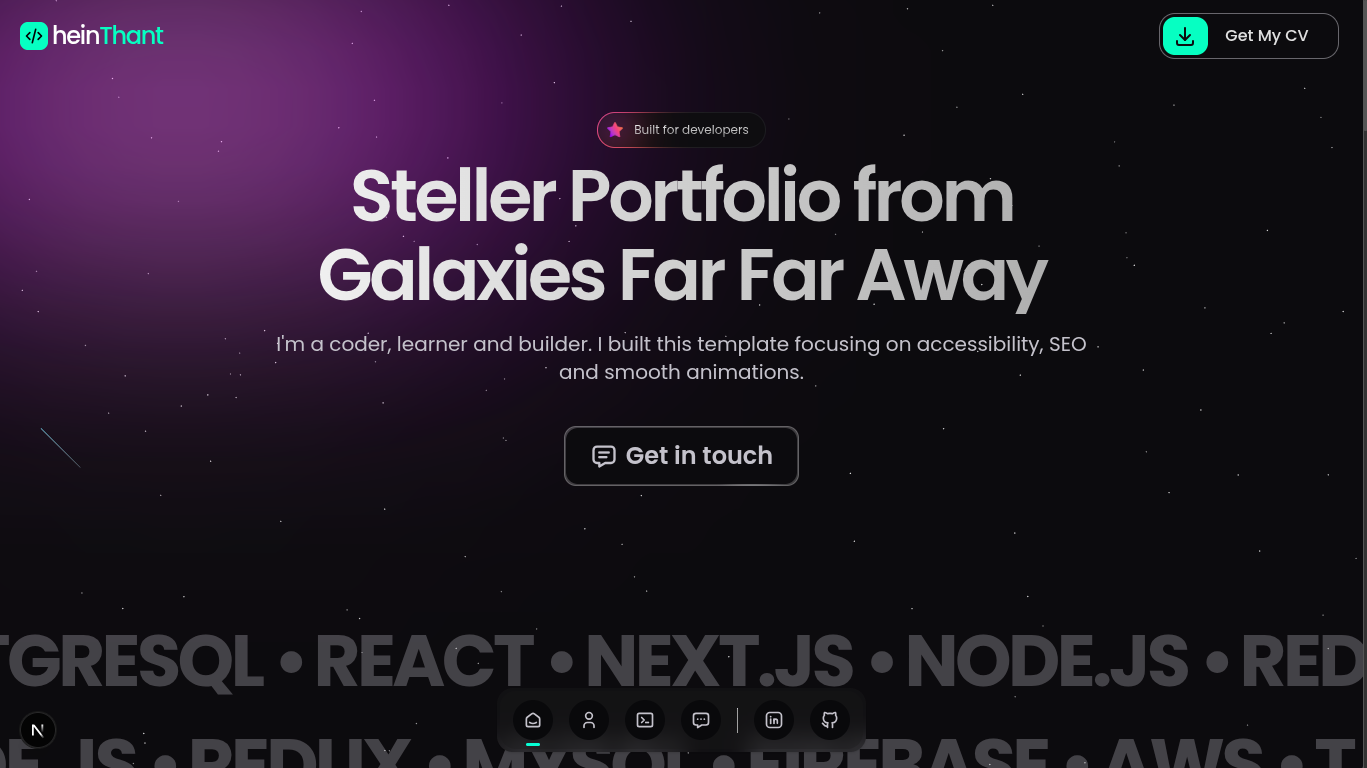
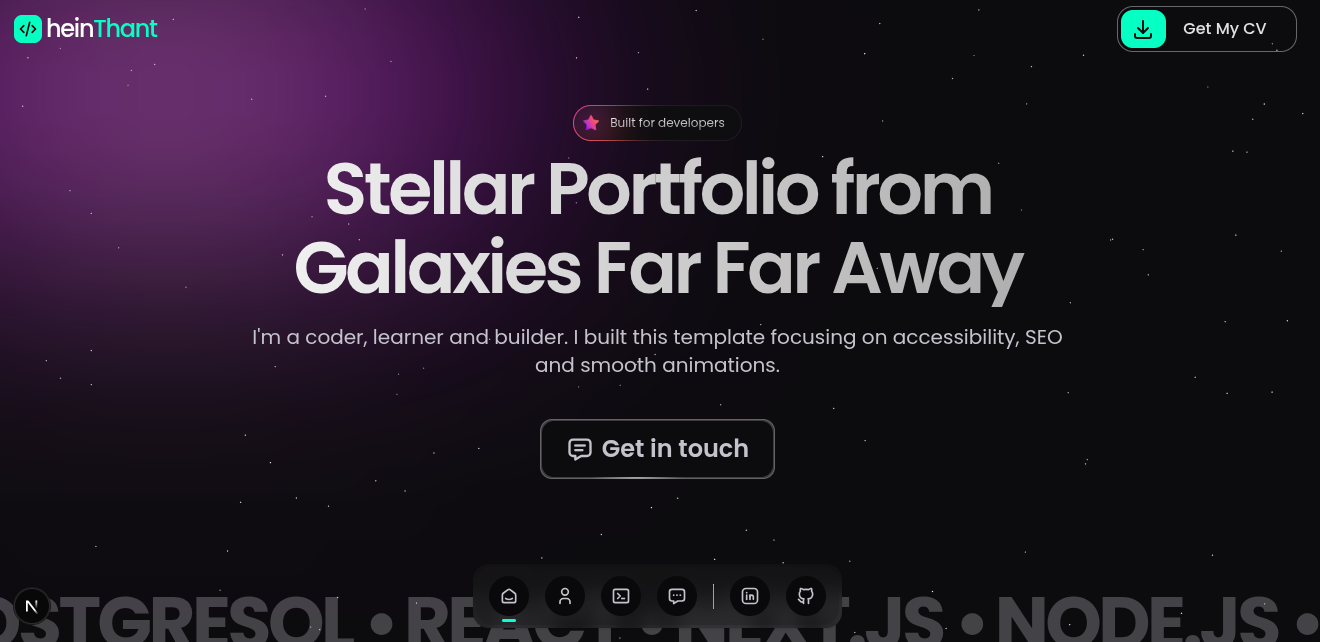
Update readme

diff --git a/README.md b/README.md
@@ -1,6 +1,6 @@
-![Nextfolio Screenshot](/.github/screenshot.png)
+![Screenshot](/.github/screenshot.png)
 
-# Nextfolio: Ultimate Next.js Portfolio Starter
+# Stellar Portfolio
 
 [![Deploy with Vercel](https://vercel.com/button)](https://vercel.com/new/git/external?repository-url=https://github.com/IndieCoderMM/stellar-portfolio)
 
@@ -10,7 +10,7 @@ Perfect for developers who want a fast, unique, and fully customizable site to s
 
 ## Features
 
-- Minimal, modern layout – Clean design focused on clarity and structure.
+- Sleek, modern layout – Clean design focused on clarity and structure.
 - Subtle motion effects – Thoughtful animations add life without getting in the way.
 - Optimized for SEO – Static pages with built-in Open Graph support via `next/og`.
 - Live content editing – Integrated with Sanity Studio for real-time content updates.
@@ -20,11 +20,11 @@ Perfect for developers who want a fast, unique, and fully customizable site to s
 
 ## Tech Stack
 
-- **Next.js** – React framework for SSR and performance
-- **Sanity.io** – Headless CMS for content management
-- **Motion.dev** – Animation library for React
-- **Tailwind CSS** – Utility-first CSS framework
-- **EmailJS** – Email service for handling contact form messages
+- Next.js – React framework for SSR and performance
+- Sanity.io – Headless CMS for content management
+- Motion.dev – Animation library for React
+- Tailwind CSS – Utility-first CSS framework
+- EmailJS – Email service for handling contact form messages
 
 ## Getting Started
 
